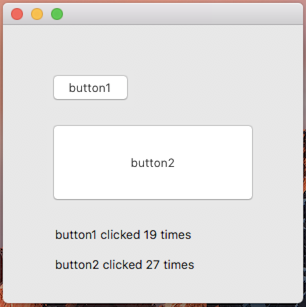
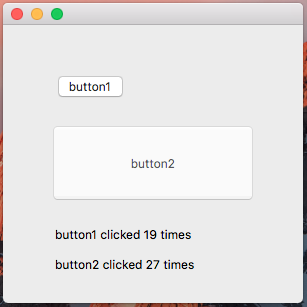
fix label color and add pictures

diff --git a/Forms/Sources/__OS/ControlCocoa.mm b/Forms/Sources/__OS/ControlCocoa.mm
@@ -162,9 +162,15 @@ bool FormsApi::Control::SetFocus(const System::Windows::Forms::Control& control)
 }
 
 void FormsApi::Control::SetForeColor(intptr hdc) {
+  ref<System::Windows::Forms::Control> control = System::Windows::Forms::Control::FromHandle(GetHandleWindowFromDeviceContext(hdc));
+  if (control) {
+    SetForeColor(control());
+  }
 }
 
 void FormsApi::Control::SetForeColor(const System::Windows::Forms::Control& control) {
+  if (is<System::Windows::Forms::Label>(control))
+    [(NSTextField*)control.Handle() setTextColor:CocoaApi::FromColor(control.ForeColor)];
 }
 
 void FormsApi::Control::SetLocation(const System::Windows::Forms::Control& control) {
